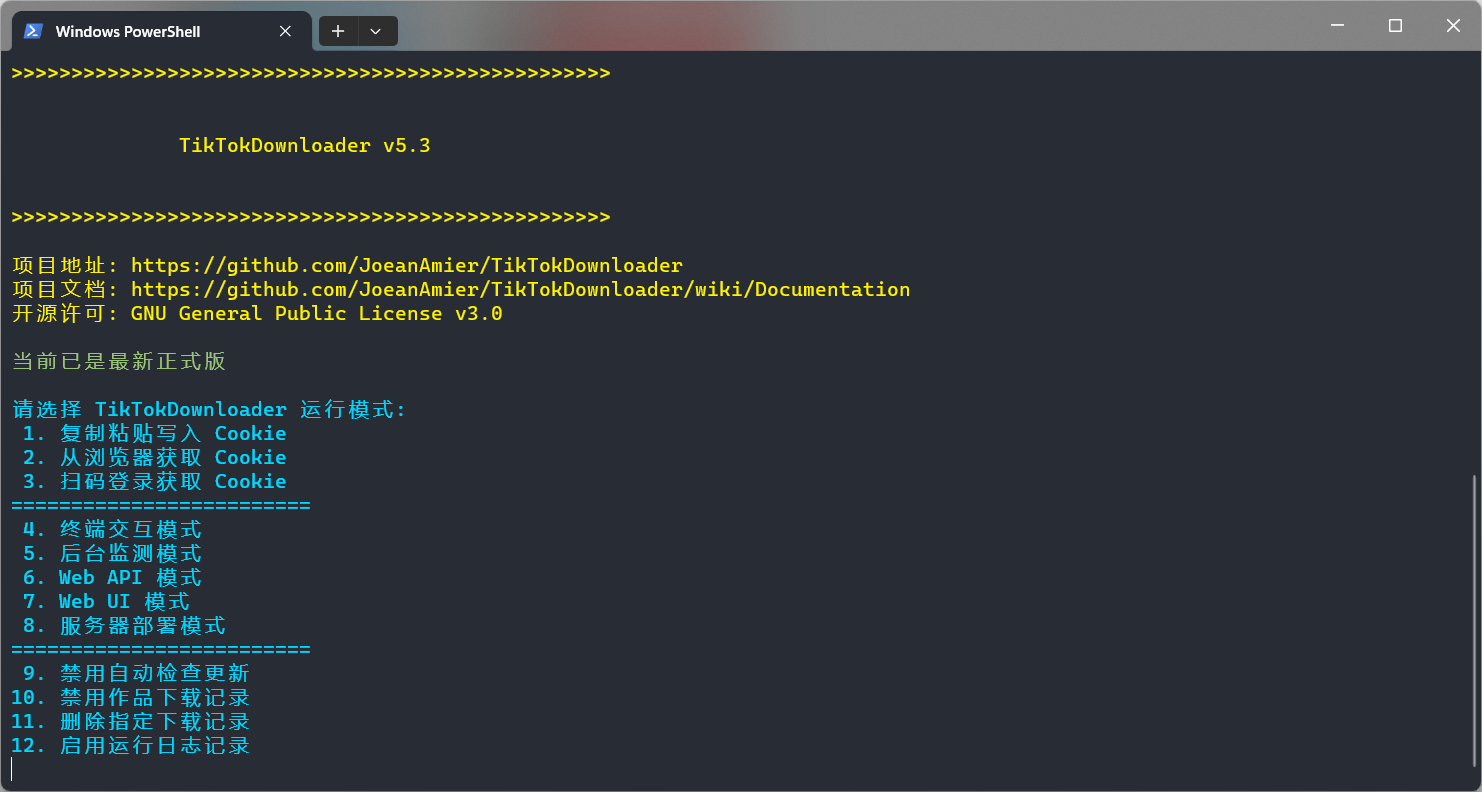
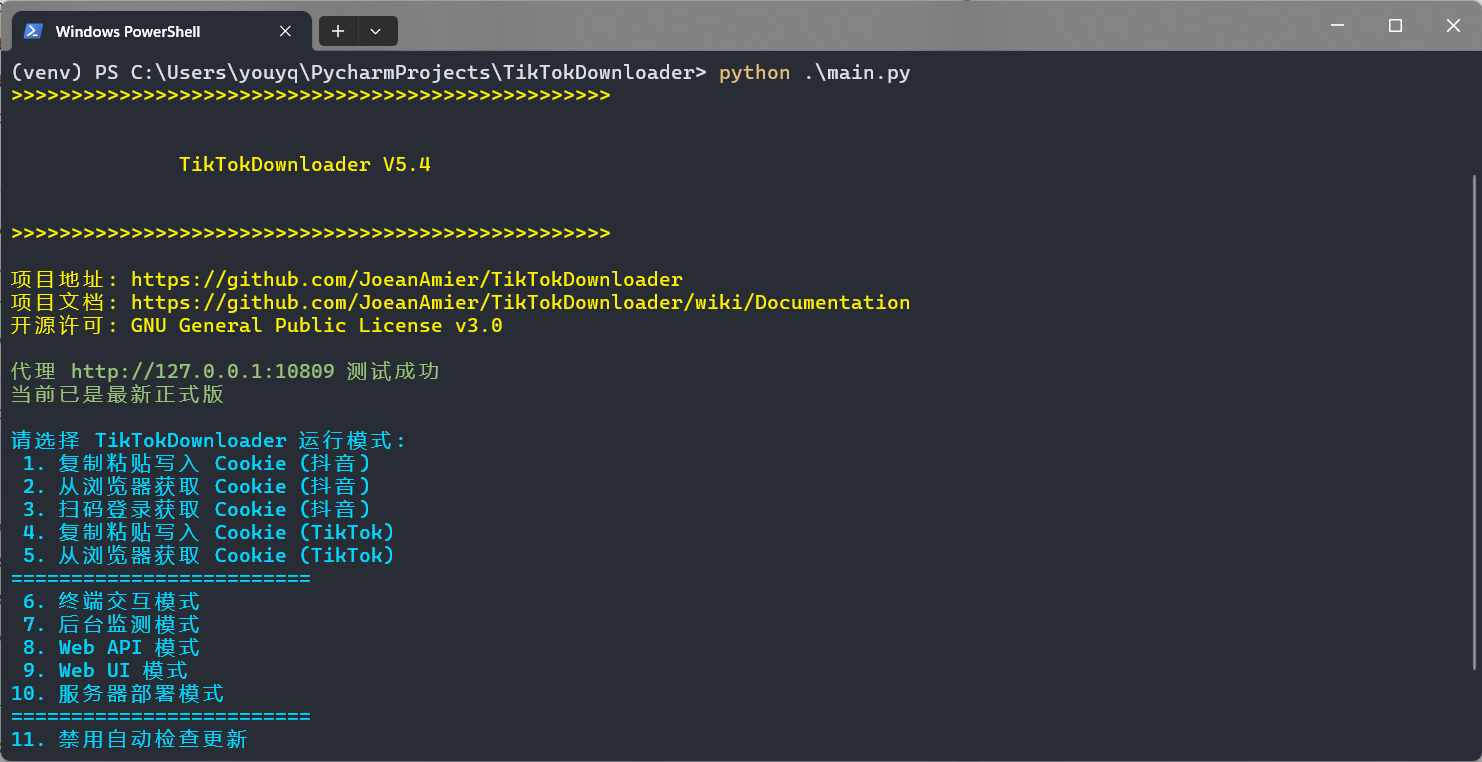
发布 5.4 版本

diff --git a/升级工具.py b/升级工具.py
@@ -21,30 +21,41 @@ def about():
 
 
 def update_params():
-    with SETTING_ROOT.open("r+", encoding=ENCODE) as f:
-        old_data = load(f)
-    with SETTING_ROOT.open("w", encoding=ENCODE) as f:
-        new_data = Settings.default | old_data
-        dump(new_data, f, indent=4, ensure_ascii=False)
-    print("已更新配置文件！")
+    if SETTING_ROOT.is_file():
+        with SETTING_ROOT.open("r+", encoding=ENCODE) as f:
+            old_data = load(f)
+        with SETTING_ROOT.open("w", encoding=ENCODE) as f:
+            new_data = Settings.default | old_data
+            dump(new_data, f, indent=4, ensure_ascii=False)
+        print("已更新配置文件！")
+    else:
+        print("未找到配置文件！")
 
 
 async def update_map(db):
-    with PROJECT_ROOT.joinpath("cache/AccountCache.json").open("r+", encoding="utf-8") as f:
-        data = load(f)
-    for i, j in data.items():
-        await db.update_mapping_data(i, j["name"], j["mark"])
-        print("写入映射", i, j["name"], j["mark"])
-    print("已更新映射数据！")
+    file = PROJECT_ROOT.joinpath("cache/AccountCache.json")
+    if file.is_file():
+        with file.open("r+", encoding="utf-8") as f:
+            data = load(f)
+        for i, j in data.items():
+            await db.update_mapping_data(i, j["name"], j["mark"])
+            print("写入映射", i, j["name"], j["mark"])
+        print("已更新映射数据！")
+    else:
+        print("未找到映射数据！")
 
 
 async def update_record(db):
-    with PROJECT_ROOT.joinpath("cache/IDRecorder.txt").open("r+", encoding="utf-8") as f:
-        data = {line.strip() for line in f}
-    for i in data:
-        await db.write_download_data(i)
-        print("写入记录", i)
-    print("已更新下载记录！")
+    file = PROJECT_ROOT.joinpath("cache/IDRecorder.txt")
+    if file.is_file():
+        with file.open("r+", encoding="utf-8") as f:
+            data = {line.strip() for line in f}
+        for i in data:
+            await db.write_download_data(i)
+            print("写入记录", i)
+        print("已更新下载记录！")
+    else:
+        print("未找到下载记录！")
 
 
 async def main():

diff --git a/src/application/main_complete.py b/src/application/main_complete.py
@@ -284,7 +284,7 @@ class TikTok:
         count = SimpleNamespace(time=time(), success=0, failed=0)
         self.logger.info(f"共有 {len(self.accounts)} 个账号的作品等待下载")
         for index, data in enumerate(self.accounts, start=1):
-            if not data.enable:
+            if hasattr(data, "enable") and not data.enable:
                 continue
             if not (sec_user_id := await self.check_sec_user_id(data.url)):
                 self.logger.warning(
@@ -312,7 +312,7 @@ class TikTok:
         count = SimpleNamespace(time=time(), success=0, failed=0)
         self.logger.info(f"共有 {len(self.accounts_tiktok)} 个账号的作品等待下载")
         for index, data in enumerate(self.accounts_tiktok, start=1):
-            if not data.enable:
+            if hasattr(data, "enable") and not data.enable:
                 continue
             if not (sec_user_id := await self.links_tiktok.run(data.url, "user")):
                 self.logger.warning(
@@ -1004,7 +1004,7 @@ class TikTok:
     async def mix_batch(self, root, params, logger):
         count = SimpleNamespace(time=time(), success=0, failed=0)
         for index, data in enumerate(self.mix, start=1):
-            if not data.enable:
+            if hasattr(data, "enable") and not data.enable:
                 continue
             mix_id, id_ = await self._check_mix_id(data.url)
             if not id_:
@@ -1033,7 +1033,7 @@ class TikTok:
     async def mix_batch_tiktok(self, root, params, logger):
         count = SimpleNamespace(time=time(), success=0, failed=0)
         for index, data in enumerate(self.mix_tiktok, start=1):
-            if not data.enable:
+            if hasattr(data, "enable") and not data.enable:
                 continue
             _, ids, title = await self.links_tiktok.run(data.url, type_="mix")
             if not ids:

diff --git a/src/application/TikTokDownloader.py b/src/application/TikTokDownloader.py
@@ -126,7 +126,7 @@ class TikTokDownloader:
         )
 
     async def disable_function(self, *args, **kwargs, ):
-        self.console.print("该功能暂不开放！", style=WARNING)
+        self.console.print("该功能正在重构，未来开发完成重新开放！", style=WARNING)
 
     # def __api_object(self):
     #     self.server(APIServer, SERVER_HOST)

diff --git a/src/custom/internal.py b/src/custom/internal.py
@@ -28,7 +28,7 @@ __all__ = [
 PROJECT_ROOT = Path(__file__).resolve().parent.parent.parent
 VERSION_MAJOR = 5
 VERSION_MINOR = 4
-VERSION_BETA = True
+VERSION_BETA = False
 PROJECT_NAME = f"TikTokDownloader V{VERSION_MAJOR}.{
 VERSION_MINOR}{" Beta" if VERSION_BETA else ""}"
 

diff --git a/docs/TikTokDownloader文档.md b/docs/TikTokDownloader文档.md
@@ -3,7 +3,7 @@
 <h1>TikTokDownloader 文档</h1>
 <img alt="GitHub" src="https://img.shields.io/github/license/JoeanAmier/TikTokDownloader?style=for-the-badge&color=ff7a45">
 <img alt="GitHub forks" src="https://img.shields.io/github/forks/JoeanAmier/TikTokDownloader?style=for-the-badge&color=fa8c16">
-<img alt="GitHub Repo stars" src="https://img.shields.io/github/stars/JoeanAmier/TikTokDownloader?style=for-the-badge&color=ff4d4f">
+<img alt="GitHub Repo stars" src="https://img.shields.io/github/stars/JoeanAmier/TikTokDownloader?style=for-the-badge&color=ffee6f">
 <img alt="GitHub code size in bytes" src="https://img.shields.io/github/languages/code-size/JoeanAmier/TikTokDownloader?style=for-the-badge&color=13c2c2">
 <br>
 <img alt="GitHub release (with filter)" src="https://img.shields.io/github/v/release/JoeanAmier/TikTokDownloader?style=for-the-badge&color=f759ab">
@@ -48,7 +48,18 @@
 <li>返回程序界面，依次选择 <code>终端交互模式</code> -> <code>批量下载链接作品(抖音)</code> -> <code>手动输入待采集的作品链接</code></li>
 <li>输入抖音作品链接即可下载作品文件</li>
 </ol>
-<p><b>TikTok 平台功能需要额外设置 <code>browser_info_tiktok</code> 的 <code>device_id</code> 参数，否则平台功能可能无法正常使用！</b></p>
+<p><b>TikTok 平台功能需要额外设置 <code>browser_info_tiktok</code> 的 <code>device_id</code> 参数，否则平台功能可能无法正常使用！参数获取方式与 Cookie 类似，详见 <a href="https://github.com/JoeanAmier/TikTokDownloader/blob/master/docs/Cookie%E8%8E%B7%E5%8F%96%E6%95%99%E7%A8%8B.md">Cookie 获取教程</a></b></p>
+<h2>Docker 容器</h2>
+<ol>
+<li>获取镜像</li>
+<ul>
+<li>方式一：使用 <code>Dockerfile</code> 文件构建镜像</li>
+<li>方式二：使用 <code>docker pull joeanamier/tiktokdownloader</code> 命令拉取镜像</li>
+</ul>
+<li>创建容器：<code>docker run -it joeanamier/tiktokdownloader</code></li>
+<li>重新启动容器：<code>docker start -i 容器名称</code></li>
+</ol>
+<p>Docker 容器无法直接访问宿主机的文件系统，部分功能不可用，例如：<code>从浏览器获取 Cookie</code>；其他功能如有异常请反馈！</p>
 <h1>获取 Cookie</h1>
 <p><a href="https://github.com/JoeanAmier/TikTokDownloader/blob/master/docs/Cookie%E8%8E%B7%E5%8F%96%E6%95%99%E7%A8%8B.md">点击查看 Cookie 获取教程</a>，无效 / 过期的 Cookie 会导致程序获取数据失败或者无法下载高分辨率的视频文件；目前尚无主动判断 Cookie 无效 / 过期的方法，<a href="https://github.com/JoeanAmier/TikTokDownloader#%E5%85%B3%E4%BA%8E-cookie">更多 Cookie 说明</a>！</p>
 <h1>入门说明</h1>
@@ -418,7 +429,7 @@ https://www.douyin.com/note/123456789
 <tr>
 <td align="center">browser_info_tiktok</td>
 <td align="center">dict</td>
-<td align="center">TikTok 平台浏览器信息，仅需修改 <code>device_id</code> 参数</td>
+<td align="center">TikTok 平台浏览器信息，仅需修改 <code>device_id</code> 参数，获取方式查阅 <a href="https://github.com/JoeanAmier/TikTokDownloader/blob/master/docs/Cookie%E8%8E%B7%E5%8F%96%E6%95%99%E7%A8%8B.md">Cookie 获取教程</a></td>
 </tr>
 </tbody></table>
 <h2>配置示例</h2>

diff --git a/README.md b/README.md
@@ -3,7 +3,7 @@
 <h1>TikTokDownloader</h1>
 <img alt="GitHub" src="https://img.shields.io/github/license/JoeanAmier/TikTokDownloader?style=for-the-badge&color=ff7a45">
 <img alt="GitHub forks" src="https://img.shields.io/github/forks/JoeanAmier/TikTokDownloader?style=for-the-badge&color=fa8c16">
-<img alt="GitHub Repo stars" src="https://img.shields.io/github/stars/JoeanAmier/TikTokDownloader?style=for-the-badge&color=ff4d4f">
+<img alt="GitHub Repo stars" src="https://img.shields.io/github/stars/JoeanAmier/TikTokDownloader?style=for-the-badge&color=ffee6f">
 <img alt="GitHub code size in bytes" src="https://img.shields.io/github/languages/code-size/JoeanAmier/TikTokDownloader?style=for-the-badge&color=13c2c2">
 <br>
 <img alt="GitHub release (with filter)" src="https://img.shields.io/github/v/release/JoeanAmier/TikTokDownloader?style=for-the-badge&color=f759ab">
@@ -61,6 +61,8 @@
 ![终端模式截图](docs/终端交互模式截图1.png)
 *****
 ![终端模式截图](docs/终端交互模式截图2.png)
+*****
+![终端模式截图](docs/终端交互模式截图3.png)
 <br><br>
 **Web UI 交互模式：**
 <br><br>
@@ -76,11 +78,9 @@
 
 # 📽 运行演示\(Example\)
 
-## 批量下载账号发布作品
-
 <p><b>🎥 点击图片观看演示视频，建议通过配置文件管理账号，更多介绍请查阅 <a href="https://github.com/JoeanAmier/TikTokDownloader/wiki/Documentation">文档</a></b></p>
 
-[![演示视频](docs/程序运行演示.png)](https://www.bilibili.com/video/BV1KH4y177Ev/)
+[![演示视频](docs/程序运行演示.png)](https://www.bilibili.com/video/BV1yr421K7qj/)
 
 # 📈 项目状态\(Status\)
 
@@ -88,7 +88,6 @@
 * 🟡 TikTokDownloader 开发计划及进度可前往 [Projects](https://github.com/users/JoeanAmier/projects/2) 查阅
 * 🔴 请注意，最新源码可能存在一些不稳定的 Bug
 * 🔴 如果在使用过程中发现程序 Bug，请及时告知作者修复
-* 🔴 夜晚无法下载抖音高分辨率视频文件，疑似抖音服务端限制
 
 # 📋 项目说明\(Instructions\)
 
@@ -129,6 +128,20 @@
 <li>更多详细说明请查看 <b><a href="https://github.com/JoeanAmier/TikTokDownloader/wiki/Documentation">项目文档</a></b></li>
 </ol>
 <p>⭐ 推荐使用 <a href="https://learn.microsoft.com/zh-cn/windows/terminal/install">Windows 终端</a>（Windows 11 自带默认终端）</p>
+
+### Docker 容器
+
+<ol>
+<li>获取镜像</li>
+<ul>
+<li>方式一：使用 <code>Dockerfile</code> 文件构建镜像</li>
+<li>方式二：使用 <code>docker pull joeanamier/tiktokdownloader</code> 命令拉取镜像</li>
+</ul>
+<li>创建容器：<code>docker run -it joeanamier/tiktokdownloader</code></li>
+<li>重新启动容器：<code>docker start -i 容器名称</code></li>
+</ol>
+<p>Docker 容器无法直接访问宿主机的文件系统，部分功能不可用，例如：<code>从浏览器获取 Cookie</code>；其他功能如有异常请反馈！</p>
+
 <hr>
 
 ## 关于 Cookie

diff --git a/docs/Cookie获取教程.md b/docs/Cookie获取教程.md
@@ -35,3 +35,9 @@
 **截图示例：**
 
 <img src="Cookie获取教程2.png" alt="开发人员工具">
+
+# device_id 参数
+
+`device_id` 参数获取方法与 Cookie 类似。
+
+<img src="device_id获取示例图.png" alt="开发人员工具">
